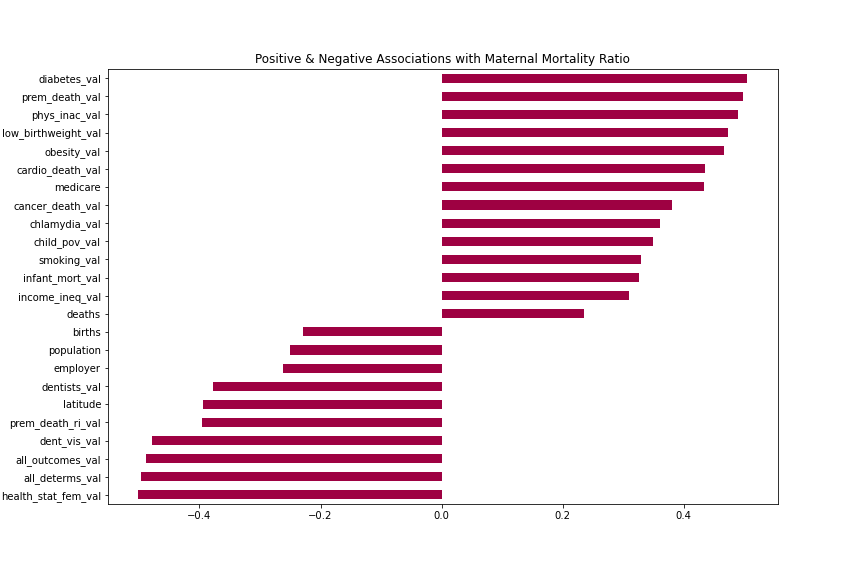
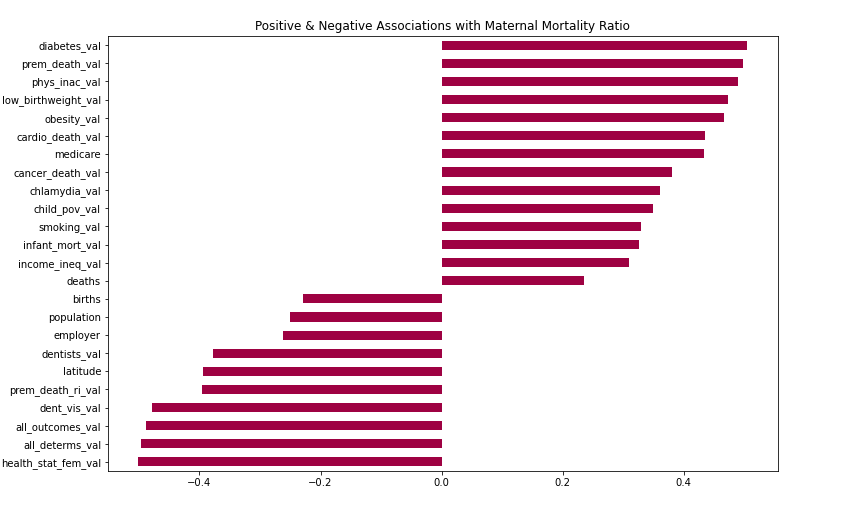
modified html and pics

Changed region(s): [[0.0, 0.0296, 0.922, 0.9783], [0.7991, 0.919, 0.8298, 0.9783], [0.6454, 0.919, 0.6761, 0.9783]]

diff --git a/templates/machine-learning-non-race-model.html b/templates/machine-learning-non-race-model.html
@@ -128,13 +128,13 @@
                         strong negative correlation with MMR.</div>
                 </div>
                 <div class="card bg-light text-dark">
-                    <div class="card-body">This figure graphically indicates the degree of positive and negative
+                    <div class="card-body mb-0 pb-0">This figure graphically indicates the degree of positive and negative
                         correlation between the most significant features and MMR. Included are only those factors that
                         had a correlation greater than 0.20 and thus suggested a moderate or greater association.
 
 
                     </div>
-                    <img class="img-fluid mx-auto d-block" src="../static/img/MMR_Non_Race_Association.png"
+                    <img class="img-fluid mx-auto my-0 py-0 d-block" src="../static/img/MMR_Non_Race_Association.png"
                         alt="Association Map">
                 </div>
                 <h3>Synopsis Linear Regression Model - All Features</h3>
@@ -151,7 +151,7 @@
                         the model is not strong or weak, and for this reason, predictions of MMR
                         with the selected features would be moderately confident.</div>
                     <div class="column bg-alt">
-                        <table id="model" class="center">
+                        <table id="model" class="center mt-2 mb-4">
                             <tr>
                                 <th>Metric</th>
                                 <th>Results</th>
